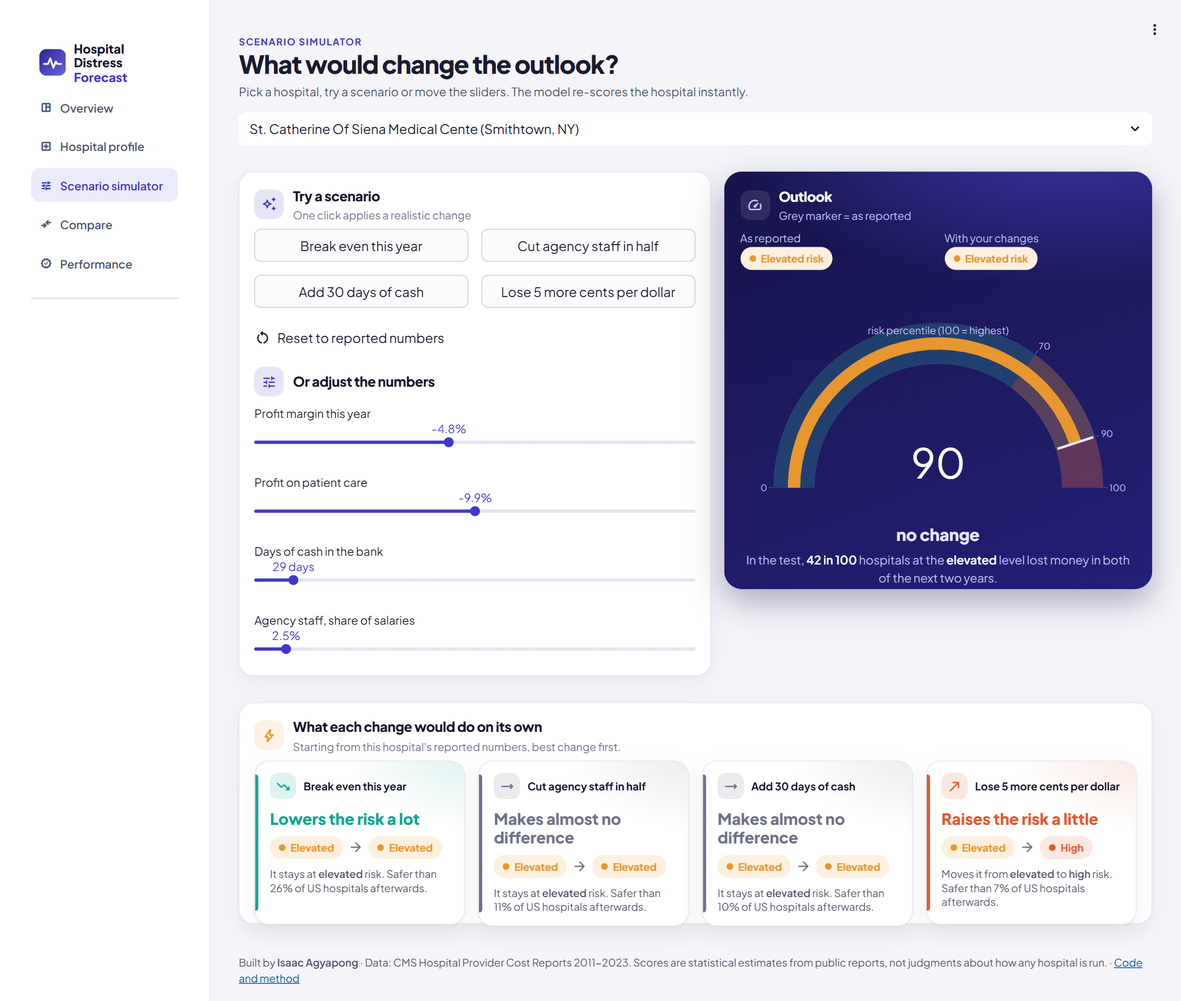
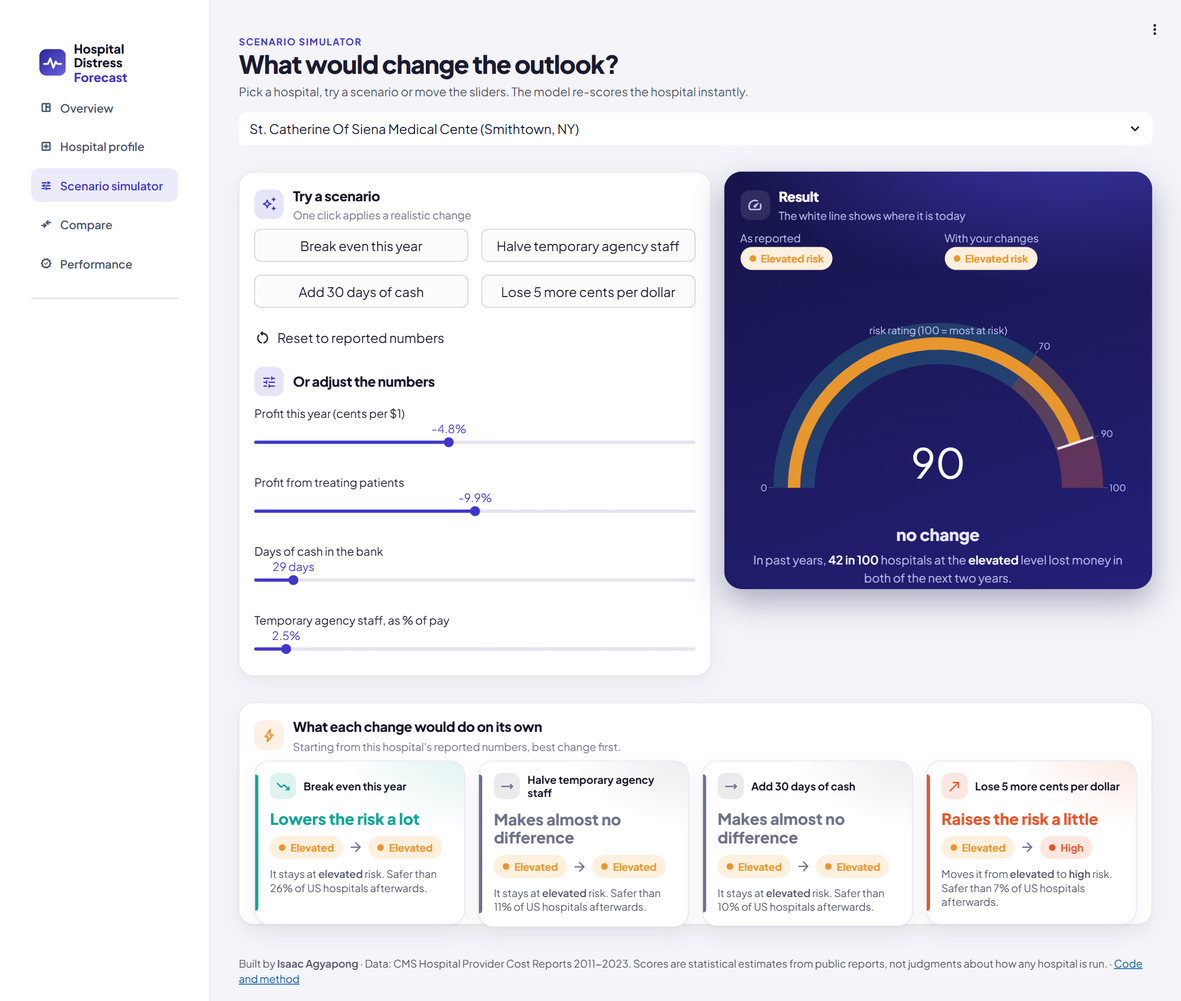
Plain-language pass: start-here guide, simpler risk-by-group chart, one risk rating, filter help, no jargon on the pages

diff --git a/app/app.py b/app/app.py
@@ -295,6 +295,17 @@ div[data-testid="stMetricValue"] {{ font-weight: 800; }}
     background: #FFF7EC; border: 1px solid #F8DDB6; font-size: 14px; color: #5B4A33; line-height: 1.55; }}
 .note .msym {{ color: {AMBER}; font-size: 22px; }}
 .note b {{ color: #3D2F1C; }}
+.start {{ background: #fff; border: 1px solid {LINE}; border-radius: 18px; padding: 14px 18px 14px 18px;
+    box-shadow: 0 6px 18px rgba(22,22,42,.05); animation: rise .6s both; }}
+.start-lab {{ font-size: 12px; font-weight: 800; letter-spacing: .1em; text-transform: uppercase; color: {INDIGO}; margin-bottom: 10px; }}
+.start-row {{ display: grid; grid-template-columns: repeat(3, 1fr); gap: 14px; }}
+.sh {{ display: flex; gap: 10px; align-items: flex-start; }}
+.sh-n {{ flex: none; width: 26px; height: 26px; border-radius: 50%; background: {INDIGO}; color: white; font-weight: 800;
+    font-size: 13px; display: grid; place-items: center; }}
+.sh .msym {{ color: {INDIGO}; font-size: 22px; flex: none; margin-top: 2px; }}
+.sh-t {{ font-size: 14.5px; font-weight: 800; color: {INK}; }}
+.sh-d {{ font-size: 13.5px; color: {INK_2}; line-height: 1.45; }}
+.start-key {{ margin-top: 12px; padding-top: 10px; border-top: 1px dashed {LINE}; font-size: 13.5px; color: {INK_2}; line-height: 2; }}
 .waffles {{ display: flex; justify-content: space-around; gap: 12px; flex-wrap: wrap; padding-top: 6px; }}
 .waffle {{ text-align: center; }}
 .waffle-n {{ font-size: 24px; font-weight: 800; letter-spacing: -0.02em; margin-top: 10px; }}
@@ -523,8 +534,8 @@ def hero():
     </div>
     <div class="hero-stats">
       <div class="hs"><b>{N:,}</b><span>hospitals scored</span></div>
-      <div class="hs"><b>{HIT}<small> in 100</small></b><span>high-risk picks proved right in the test</span></div>
-      <div class="hs"><b>+{hm - hr}</b><span>more early warnings than the best simple rule</span></div>
+      <div class="hs"><b>{HIT}<small> in 100</small></b><span>of the hospitals it flagged as high risk really did struggle, when checked against later years</span></div>
+      <div class="hs"><b>+{hm - hr}</b><span>more struggling hospitals spotted early than a simple rule of thumb</span></div>
     </div>
   </div>
 </div>"""
@@ -559,8 +570,24 @@ def night_map(d):
     return fig
 
 
+def start_here():
+    steps = [("map", "Look at the map", "Every dot is a hospital. Red means high risk of losing money two years in a row."),
+             ("touch_app", "Click any hospital", "See its risk, its profit history and the reasons behind its rating."),
+             ("tune", "Try \"what if\"", "In the simulator, change its numbers and watch the risk go up or down.")]
+    cells = "".join(f'<div class="sh"><span class="sh-n">{i + 1}</span><span class="msym">{ic}</span>'
+                    f'<div><div class="sh-t">{t_}</div><div class="sh-d">{d_}</div></div></div>'
+                    for i, (ic, t_, d_) in enumerate(steps))
+    html(f"""<div class="start"><div class="start-lab">New here? Start with these three steps</div>
+        <div class="start-row">{cells}</div>
+        <div class="start-key"><b>Risk levels:</b> {badge("High")} the 10% of hospitals most likely to struggle ·
+        {badge("Elevated")} the next 20% · {badge("Lower")} the other 70%. <b>Profit</b> is the cents a hospital keeps from
+        each $1 it takes in; below zero means it lost money.</div></div>""")
+
+
 def overview():
     hero()
+    st.write("")
+    start_here()
     # clicks remembered from the last run: a dot on the night map opens that hospital, a row in the table too
     ev = st.session_state.get("night")
     pts = (ev or {}).get("selection", {}).get("points", []) if ev else []
@@ -575,9 +602,12 @@ def overview():
         c = st.columns([1.2, 1.3, 1.6, 1.2])
         states = ["All states"] + sorted(SCORES.state_abbrev.unique())
         state = c[0].selectbox("State", states, key="f_state")
-        htype = c[1].pills("Hospital type", ["General", "Critical access"], selection_mode="multi", key="f_type")
-        owner = c[2].pills("Owner", ["Nonprofit", "For-profit", "Government"], selection_mode="multi", key="f_owner")
-        area = c[3].pills("Area", ["Urban", "Rural"], selection_mode="multi", key="f_area")
+        htype = c[1].pills("Hospital type", ["General", "Critical access"], selection_mode="multi", key="f_type",
+                           help="Critical access = small rural hospitals with 25 beds or fewer. General = all other hospitals.")
+        owner = c[2].pills("Owner", ["Nonprofit", "For-profit", "Government"], selection_mode="multi", key="f_owner",
+                           help="Who runs the hospital: a charity (nonprofit), a company (for-profit) or a city, county or state (government).")
+        area = c[3].pills("Area", ["Urban", "Rural"], selection_mode="multi", key="f_area",
+                          help="Urban = in or near a city. Rural = countryside.")
     d = SCORES
     if state != "All states":
         d = d[d.state_abbrev == state]
@@ -596,51 +626,53 @@ def overview():
     c = st.columns(4)
     shares = {L: 100 * lv.get(L, 0) / n for L in LEVELS}
     trend = HIST[HIST.ccn.isin(d.ccn)].groupby("fiscal_year").total_margin.median()
-    kpi(c[0], "n", "Hospitals in view", f"{n:,}", "latest report, mostly 2023", INDIGO_D, "local_hospital",
+    kpi(c[0], "n", "Hospitals shown", f"{n:,}", "from their latest yearly reports", INDIGO_D, "local_hospital",
         mixbar_svg(shares), 0)
     kpi(c[1], "h", "High risk", f"{lv.get('High', 0):,}",
-        f"{TRACK['High']} in 100 like these lost money in the test", CORAL, "warning",
+        f"of those shown. In past years, {TRACK['High']} in 100 like these went on to struggle", CORAL, "warning",
         ring_svg(shares["High"], CORAL, text=f"{shares['High']:.0f}%", track="#FBE3DC"), 1)
     kpi(c[2], "e", "Elevated risk", f"{lv.get('Elevated', 0):,}",
-        f"{TRACK['Elevated']} in 100 in the test", AMBER, "trending_up",
+        f"of those shown. In past years, {TRACK['Elevated']} in 100 like these struggled", AMBER, "trending_up",
         ring_svg(shares["Elevated"], AMBER, text=f"{shares['Elevated']:.0f}%", track="#FBEBD6"), 2)
-    kpi(c[3], "m", "Typical profit margin", f"{100 * d.total_margin.median():.1f}%",
-        f"typical margin, {int(trend.index.min())}-{int(trend.index.max())}", INDIGO, "payments",
+    kpi(c[3], "m", "Typical profit", f"{100 * d.total_margin.median():.1f}¢",
+        f"kept from each $1 of income. Trend since {int(trend.index.min())}", INDIGO, "payments",
         spark_svg(trend.values, INDIGO), 3)
     st.write("")
     with st.container(key="night-card"):
         st.markdown(f'<div class="night-head"><div><div class="night-eyebrow">The night map</div>'
                     f'<div class="night-title">{n:,} hospitals, each a point of light</div></div>'
-                    f'<div class="night-note">Coral = high risk · hover for details · <b>click a dot to open the hospital</b>'
+                    f'<div class="night-note">Red dots = high risk · point at a dot for details · <b>click a dot to open that hospital</b>'
                     f'</div></div>', unsafe_allow_html=True)
         plot(night_map(d), on_select="rerun", selection_mode="points", key="night")
     st.write("")
     left, right = st.columns([1, 1.25])
     with left, card("sun"):
-        section("donut_large", "Who is at risk", "Owner, then rural or urban, then risk level. Click a ring to zoom in.")
-        g = d.groupby(["ownership", "rural_urban", "risk_level"]).size().reset_index(name="n")
-        ids, labels, parents, values, colours = [], [], [], [], []
-        own_col = {"Nonprofit": INDIGO, "For-profit": "#6A62E0", "Government": "#2B2596"}
-        for o, go_ in g.groupby("ownership"):
-            ids.append(o); labels.append(o); parents.append(""); values.append(go_.n.sum()); colours.append(own_col.get(o, INDIGO))
-            for a, ga in go_.groupby("rural_urban"):
-                ids.append(f"{o}/{a}"); labels.append(a); parents.append(o); values.append(ga.n.sum())
-                colours.append(INDIGO_L if a == "Urban" else "#C9C6F4")
-                for _, r in ga.iterrows():
-                    ids.append(f"{o}/{a}/{r.risk_level}"); labels.append(r.risk_level); parents.append(f"{o}/{a}")
-                    values.append(r.n); colours.append(LEVEL_COLOUR[r.risk_level])
-        fig = go.Figure(go.Sunburst(ids=ids, labels=labels, parents=parents, values=values, branchvalues="total",
-                                    marker=dict(colors=colours, line=dict(color="white", width=1.5)),
-                                    insidetextorientation="radial", textfont=dict(size=13),
-                                    hovertemplate="<b>%{label}</b><br>%{value:,} hospitals<br>%{percentParent:.0%} of "
-                                                  "%{parent}<extra></extra>"))
-        fig = styled(fig, 420)
-        fig.update_layout(uniformtext=dict(minsize=12, mode="hide"))
+        section("groups", "Which kinds of hospitals are most at risk",
+                "Share of each group rated high risk. The dashed line is the average for all hospitals shown.")
+        groups = [("For-profit", d.ownership == "For-profit"), ("Nonprofit", d.ownership == "Nonprofit"),
+                  ("Government", d.ownership == "Government"), ("City (urban)", d.rural_urban == "Urban"),
+                  ("Countryside (rural)", d.rural_urban == "Rural"), ("General hospitals", d.type_short == "General"),
+                  ("Small rural hospitals", d.type_short == "Critical access")]
+        g = pd.DataFrame([(name, int(m.sum()), 100 * (d[m].risk_level == "High").mean()) for name, m in groups if m.sum() >= 10],
+                         columns=["group", "n", "share"]).sort_values("share")
+        avg = 100 * (d.risk_level == "High").mean()
+        fig = go.Figure(go.Bar(
+            x=g.share, y=g.group, orientation="h",
+            marker=dict(color=[CORAL if v > avg else INDIGO_L for v in g.share], cornerradius=7),
+            text=[f"<b>{v:.0f}%</b>  of {n:,}" for v, n in zip(g.share, g.n)], textposition="outside",
+            textfont=dict(size=12.5), hovertemplate="%{y}: %{x:.0f}% at high risk<extra></extra>"))
+        fig.add_vline(x=avg, line_dash="dash", line_color=INK_3, line_width=1.5,
+                      annotation_text=f"average {avg:.0f}%", annotation_position="top",
+                      annotation_font=dict(size=11.5, color=INK_2))
+        fig.update_xaxes(visible=False, range=[0, max(g.share.max() * 1.45, 5)])
+        fig.update_yaxes(tickfont=dict(size=13))
+        fig = styled(fig, 400)
+        fig.update_layout(bargap=0.35, margin=dict(l=8, r=8, t=30, b=8))
         plot(fig)
     with right, card("list"):
         top = st.columns([1.7, 1.6])
         with top[0]:
-            section("format_list_numbered", "Highest-risk hospitals", "Select a row to open its profile", CORAL)
+            section("format_list_numbered", "Hospitals most at risk", "Tick a row to open that hospital's page", CORAL)
         lvl = top[1].segmented_control("Show", LEVELS, default="High", key="f_level", label_visibility="collapsed")
         t = d[d.risk_level == lvl] if lvl else d
         table = t.assign(margin=100 * t.total_margin)[["label", "percentile", "margin", "loss_streak"]].head(300)
@@ -649,10 +681,10 @@ def overview():
             selection_mode="single-row", key="table",
             column_config={
                 "label": st.column_config.TextColumn("Hospital", width=250),
-                "percentile": st.column_config.ProgressColumn("Risk score", min_value=0, max_value=100, format="%.0f",
+                "percentile": st.column_config.ProgressColumn("Risk rating", min_value=0, max_value=100, format="%.0f",
                                                               width=100),
-                "margin": st.column_config.NumberColumn("Margin", format="%.1f%%", width=72),
-                "loss_streak": st.column_config.NumberColumn("Loss years", width=76)})
+                "margin": st.column_config.NumberColumn("Profit", format="%.1f%%", width=72),
+                "loss_streak": st.column_config.NumberColumn("Years losing", width=90)})
         rows = ev.selection.rows if ev is not None else []
         if rows:
             open_profile(table.iloc[rows[0]].label)
@@ -678,14 +710,14 @@ def swarm(h):
                     marker=dict(size=34, color=LEVEL_COLOUR[h.risk_level], opacity=0.2))
     fig.add_scatter(x=[hx], y=[0], mode="markers", showlegend=False, hoverinfo="skip",
                     marker=dict(size=15, color=LEVEL_COLOUR[h.risk_level], line=dict(color="white", width=3)))
-    fig.add_annotation(x=hx, y=0, ax=0, ay=-78, text=f"<b>{h['name'][:44]}</b><br>score {hx:.0f} · #{int(h.risk_rank):,}",
+    fig.add_annotation(x=hx, y=0, ax=0, ay=-78, text=f"<b>{h['name'][:44]}</b><br>#{int(h.risk_rank):,} of {N:,} most at risk",
                        showarrow=True, arrowhead=0, arrowwidth=1.5, arrowcolor=INK, bgcolor="white",
                        bordercolor=LINE, borderpad=6, font=dict(size=12, color=INK, family="Plus Jakarta Sans"))
     for xv, lab in [(100 * Q70, "elevated"), (100 * Q90, "high")]:
         fig.add_vline(x=xv, line_color=INK_3, line_dash="dot", line_width=1)
         fig.add_annotation(x=xv, y=-2.9, text=f"{lab} risk from here", showarrow=False, xanchor="left",
                            font=dict(size=11, color=INK_3))
-    fig.update_xaxes(range=[-1, 101], title="model risk score (0-100)", showgrid=False, zeroline=False)
+    fig.update_xaxes(range=[-1, 101], title="<b>safest</b>  ←  risk  →  <b>most at risk</b>", showgrid=False, zeroline=False, showticklabels=False)
     fig.update_yaxes(visible=False, range=[-3.1, 3.4])
     fig.update_layout(legend=dict(orientation="h", y=1.1, x=0))
     return styled(fig, 340, legend=True)
@@ -704,7 +736,7 @@ def profile():
         <span class="gchip"><span class="msym">location_on</span>{h.city}, {h.state_abbrev}</span>
         <span class="gchip"><span class="msym">apartment</span>{h.ownership}</span>
         <span class="gchip"><span class="msym">{"park" if h.rural_urban == "Rural" else "location_city"}</span>{h.rural_urban}</span>{beds}</div>
-        <div class="phead-r">{ring_svg(h.percentile, lc, size=124, stroke=11, text=f"{h.percentile:.0f}", sub="risk percentile",
+        <div class="phead-r">{ring_svg(h.percentile, lc, size=124, stroke=11, text=f"{h.percentile:.0f}", sub="risk rating",
                                       track="rgba(255,255,255,.12)", text_colour="white")}
         <div>{badge(h.risk_level)}<div class="phead-rank">#{int(h.risk_rank):,} <span>of {N:,}</span></div>
         <div class="phead-note">riskier than {h.percentile:.0f}% of US hospitals</div></div></div></div>""")
@@ -712,29 +744,29 @@ def profile():
     c = st.columns(4)
     hh = HIST[HIST.ccn == h.ccn].sort_values("fiscal_year")
     mcol = CORAL if h.total_margin < 0 else TEAL
-    kpi(c[0], "pm", "Profit margin", f"{100 * h.total_margin:.1f}%",
-        f"US typical {100 * SCORES.total_margin.median():.1f}% · trend since {int(hh.fiscal_year.min())}", mcol, "payments",
+    kpi(c[0], "pm", "Profit (or loss)", f"{100 * h.total_margin:.1f}%",
+        f"per $1 of income (typical: {100 * SCORES.total_margin.median():.1f}%)", mcol, "payments",
         spark_svg(hh.total_margin.values, mcol), 0)
     kpi(c[1], "ls", "Years in a row losing money", f"{int(h.loss_streak)}",
         "made money in its latest year" if h.loss_streak == 0 else f"losing money up to {int(h.fiscal_year)}",
         CORAL if h.loss_streak >= 2 else INDIGO, "event_repeat", streak_svg(h.ccn), 1)
-    kpi(c[2], "pc", "Profit on patient care", show_value("operating_margin", h.operating_margin),
-        "before gifts and investments", CORAL if (h.operating_margin or 0) < 0 else TEAL, "stethoscope",
+    kpi(c[2], "pc", "Profit from treating patients", show_value("operating_margin", h.operating_margin),
+        "not counting donations", CORAL if (h.operating_margin or 0) < 0 else TEAL, "stethoscope",
         bullet_svg(h.operating_margin, SCORES.operating_margin.median(), CORAL if (h.operating_margin or 0) < 0 else TEAL), 2)
-    kpi(c[3], "tr", "Track record of this level", f"{TRACK[h.risk_level]} in 100",
-        f"{h.risk_level.lower()}-risk hospitals that then lost money two years (test)", lc, "fact_check",
+    kpi(c[3], "tr", "How often this goes badly", f"{TRACK[h.risk_level]} in 100",
+        f"{h.risk_level}-risk hospitals then lost money 2 years running", lc, "fact_check",
         ring_svg(TRACK[h.risk_level], lc, text=f"{TRACK[h.risk_level]}", track=LEVEL_BG[h.risk_level]), 3)
     st.write("")
     with card("swarm"):
         section("scatter_plot", "Where it sits among all US hospitals",
-                f"Each dot is one of {N:,} hospitals, placed by its risk score. Most are low risk; a long tail runs toward trouble.")
+                f"Each dot is one US hospital, from safest (left) to most at risk (right). Most are safe; a thin tail runs toward trouble.")
         plot(swarm(h))
     st.write("")
     tabs = st.tabs([":material/insights: Why this score", ":material/bar_chart: Profit history",
                     ":material/groups: Compared with peers"])
     with tabs[0], card("why"):
         section("psychology", "What moved this hospital's score",
-                "Each bar is one factor: right = pushes the risk up, left = pulls it down. Exact contributions from the model.",
+                "Each bar is one thing the model looked at. Bars to the right make things look worse; bars to the left make them look better.",
                 CORAL)
         top = contrib.reindex(contrib.abs().sort_values(ascending=False).index).head(8)[::-1]
         ylab = []
@@ -744,7 +776,8 @@ def profile():
             who = "that year" if f in ("us_median_margin", "state_median_margin", "state_share_losing") else "this hospital"
             if who == "that year":
                 extra = ""
-            ylab.append(f"<b>{META['labels'][f].capitalize()}</b><br><span style='color:{INK_3}'>{who} "
+            name = META['labels'][f].replace('profit margin', 'profit').replace('profit on patient care', 'profit from treating patients')
+            ylab.append(f"<b>{name.capitalize()}</b><br><span style='color:{INK_3}'>{who} "
                         f"{show_value(f, row[f])}{extra}</span>")
         lim = max(abs(top.values).max() * 1.25, 0.1)
         fig = go.Figure(go.Bar(
@@ -765,7 +798,7 @@ def profile():
         fig.update_layout(bargap=0.32, margin=dict(l=8, r=8, t=34, b=8))
         plot(fig)
     with tabs[1], card("hist"):
-        section("bar_chart", "Profit margin by year", "Share of each dollar of income kept as profit. Coral = a loss.")
+        section("bar_chart", "Profit or loss, year by year", "Cents kept from each $1 of income. Red bars = years it lost money.")
         fig = go.Figure(go.Bar(x=hh.fiscal_year, y=100 * hh.total_margin,
                                marker=dict(color=[CORAL if v < 0 else INDIGO for v in hh.total_margin], cornerradius=6),
                                text=[f"{100 * v:.1f}%" for v in hh.total_margin], textposition="outside",
@@ -781,7 +814,7 @@ def profile():
         ps = 100 * (peers.risk_level == "High").mean()
         kpi(pc[0], "pp1", "Peers in the state", f"{len(peers):,}", f"{h.hospital_type.lower()} hospitals",
             INDIGO, "groups", mixbar_svg({L: 100 * (peers.risk_level == L).mean() for L in LEVELS}), 0)
-        kpi(pc[1], "pp2", "Their typical profit margin", f"{100 * peers.total_margin.median():.1f}%",
+        kpi(pc[1], "pp2", "Their typical profit", f"{100 * peers.total_margin.median():.1f}%",
             f"this hospital {100 * h.total_margin:.1f}%", INDIGO, "payments",
             bullet_svg(h.total_margin, peers.total_margin.median(), mcol), 1)
         kpi(pc[2], "pp3", "Peers at high risk", f"{ps:.0f}%", "of the same type in the state", CORAL, "warning",
@@ -792,7 +825,7 @@ def profile():
 SCENARIOS = {
     "Break even this year": lambda r: {"total_margin": max(r["total_margin"], 0.0),
                                        "operating_margin": max(r["operating_margin"] or 0, 0.0)},
-    "Cut agency staff in half": lambda r: {"contract_labor_pct": (r["contract_labor_pct"] or 0) / 2},
+    "Halve temporary agency staff": lambda r: {"contract_labor_pct": (r["contract_labor_pct"] or 0) / 2},
     "Add 30 days of cash": lambda r: {"days_cash_on_hand": max(r["days_cash_on_hand"] or 0, 0) + 30},
     "Lose 5 more cents per dollar": lambda r: {"total_margin": r["total_margin"] - 0.05,
                                                "operating_margin": (r["operating_margin"] or 0) - 0.05},
@@ -837,10 +870,10 @@ def simulator():
                 st.session_state[key + k] = v
             st.rerun()
         section("tune", "Or adjust the numbers")
-        m = st.slider("Profit margin this year", -40.0, 40.0, step=0.5, key=key + "m", format="%.1f%%")
-        om = st.slider("Profit on patient care", -60.0, 40.0, step=0.5, key=key + "o", format="%.1f%%")
+        m = st.slider("Profit this year (cents per $1)", -40.0, 40.0, step=0.5, key=key + "m", format="%.1f%%")
+        om = st.slider("Profit from treating patients", -60.0, 40.0, step=0.5, key=key + "o", format="%.1f%%")
         cash = st.slider("Days of cash in the bank", 0.0, 365.0, step=1.0, key=key + "c", format="%.0f days")
-        agency = st.slider("Agency staff, share of salaries", 0.0, 40.0, step=0.5, key=key + "a", format="%.1f%%")
+        agency = st.slider("Temporary agency staff, as % of pay", 0.0, 40.0, step=0.5, key=key + "a", format="%.1f%%")
     row = dict(base, total_margin=m / 100, operating_margin=om / 100, days_cash_on_hand=cash,
                contract_labor_pct=agency / 100, loss=int(m < 0))
     if m >= 0:
@@ -853,13 +886,13 @@ def simulator():
     pb, pa = percentile_of(before), percentile_of(after)
     lb, la = level_of(before), level_of(after)
     with right, st.container(key="dark-outcome"):
-        section("speed", "Outlook", "Grey marker = as reported")
+        section("speed", "Result", "The white line shows where it is today")
         c = st.columns(2)
         c[0].markdown(f'<div class="muted">As reported</div>{badge(lb)}', unsafe_allow_html=True)
         c[1].markdown(f'<div class="muted">With your changes</div>{badge(la)}', unsafe_allow_html=True)
         fig = go.Figure(go.Indicator(
             mode="gauge+number", value=pa, number=dict(valueformat=".0f", font=dict(size=50, color="white")),
-            title=dict(text="risk percentile (100 = highest)", font=dict(size=12.5, color="#BEBBF0")),
+            title=dict(text="risk rating (100 = most at risk)", font=dict(size=12.5, color="#BEBBF0")),
             gauge=dict(axis=dict(range=[0, 100], tickvals=[0, 70, 90, 100], tickfont=dict(size=11, color="#BEBBF0"),
                                  tickcolor="#5C58B0"),
                        bar=dict(color=LEVEL_COLOUR[la], thickness=0.3), bgcolor="rgba(255,255,255,.04)",
@@ -874,7 +907,7 @@ def simulator():
         arrow = "no change" if abs(moved) < 0.5 else (f"▲ {moved:.0f} points riskier" if moved > 0 else f"▼ {-moved:.0f} points safer")
         colour = "#E9E8FF" if abs(moved) < 0.5 else (CORAL if moved > 0 else "#4FD1C0")
         html(f"""<div style="text-align:center;font-size:20px;font-weight:800;color:{colour}">{arrow}</div>
-            <div class="sub" style="text-align:center;margin-top:4px">In the test, <b>{TRACK[la]} in 100</b> hospitals at the
+            <div class="sub" style="text-align:center;margin-top:4px">In past years, <b>{TRACK[la]} in 100</b> hospitals at the
             <b>{la.lower()}</b> level lost money in both of the next two years.</div><div style="height:6px"></div>""")
     st.write("")
     with card("impact"):
@@ -943,18 +976,18 @@ def compare():
                 <div style="display:flex;justify-content:space-between;gap:10px;align-items:flex-start">
                 <div><div class="cmp-name"><span style="color:{palette[i]}">●</span> {h["name"]}</div>
                 <div class="muted" style="margin:2px 0 8px 0">{h.city}, {h.state_abbrev} · {h.ownership}</div>{badge(h.risk_level)}</div>
-                {ring_svg(h.percentile, lc, size=78, stroke=8, text=f"{h.percentile:.0f}", sub="percentile",
+                {ring_svg(h.percentile, lc, size=78, stroke=8, text=f"{h.percentile:.0f}", sub="risk rating",
                           track=LEVEL_BG[h.risk_level])}</div>
                 <div style="font-size:26px;font-weight:800;color:{INK};margin:10px 0 2px 0">#{int(h.risk_rank):,}
                 <span class="muted" style="font-size:13px">of {N:,}</span></div>
                 <div style="margin:6px 0 4px 0">{spark_svg(hh.total_margin.values, CORAL if h.total_margin < 0 else TEAL, w=250, h=52)}</div>
-                <div class="cmp-row"><span>Profit margin</span><b style="color:{CORAL if h.total_margin < 0 else TEAL}">{100 * h.total_margin:.1f}%</b></div>
+                <div class="cmp-row"><span>Profit per $1</span><b style="color:{CORAL if h.total_margin < 0 else TEAL}">{100 * h.total_margin:.1f}%</b></div>
                 <div class="cmp-row"><span>Years losing money</span><b>{int(h.loss_streak)}</b></div>
                 <div class="cmp-row"><span>Days of cash</span><b>{show_value("days_cash_on_hand", h.days_cash_on_hand)}</b></div>
-                <div class="cmp-row"><span>Biggest factor</span><b>{str(h.reason_1)}</b></div></div>""")
+                <div class="cmp-row"><span>Biggest factor</span><b>{str(h.reason_1).replace('profit margin', 'profit')}</b></div></div>""")
     st.write("")
     with card("cmp_hist"):
-        section("show_chart", "Profit margin over time", "Below the line = losing money")
+        section("show_chart", "Profit or loss over time", "Below the line = losing money")
         fig = go.Figure()
         lows = []
         for i, (_, h) in enumerate(d.iterrows()):
@@ -988,14 +1021,14 @@ def performance():
             f'<rect x="54" y="{58 - 50 * hr / hm:.0f}" width="30" height="{50 * hr / hm:.0f}" rx="7" fill="#F29B38" '
             f'style="animation:pop .5s .15s both"/></svg>')
     c = st.columns(4)
-    kpi(c[0], "p1", "High-risk picks that were right", f"{HIT} in 100", "2021 reports, outcome 2022-2023", INDIGO,
+    kpi(c[0], "p1", "Right when it said 'high risk'", f"{HIT} in 100", "2021 reports, outcome 2022-2023", INDIGO,
         "target", ring_svg(HIT, INDIGO, text=f"{HIT}", track=INDIGO_XL), 0)
     kpi(c[1], "p2", "Best rule of thumb", f"{rule} in 100", "already lost money 2 years running", "#E58A1F",
         "rule", ring_svg(rule, "#F29B38", text=f"{rule}", track="#FDEBD5"), 1)
-    kpi(c[2], "p3", "Early warnings caught", f"+{hm - hr}", f"{hm} vs {hr} among hospitals still making money", TEAL,
+    kpi(c[2], "p3", "Early warnings caught", f"+{hm - hr}", f"{hm} vs {hr} caught while still making money", TEAL,
         "notifications_active", bars, 2)
-    kpi(c[3], "p4", "Ranking accuracy", f"{auc:.2f}", f"ROC-AUC · best rule {auc_rule:.2f} · 0.5 = a coin flip", INDIGO_D,
-        "leaderboard", ring_svg(100 * (auc - 0.5) / 0.5, INDIGO_D, text=f"{auc:.2f}", track=INDIGO_XL), 3)
+    kpi(c[3], "p4", "Tells struggling from safe", f"{round(100 * auc)} in 100", f"picks the struggler from a pair (coin flip: 50)", INDIGO_D,
+        "leaderboard", ring_svg(100 * auc, INDIGO_D, text=f"{round(100 * auc)}", track=INDIGO_XL), 3)
     st.write("")
     left, right = st.columns([1.2, 1])
     with left, card("perf_years"):
@@ -1020,7 +1053,7 @@ def performance():
         plot(styled(fig, 400, legend=True))
     with right, card("perf_levels"):
         section("grid_view", "Out of every 100 hospitals in each group",
-                "how many lost money in both of the next two years (2021 test)", CORAL)
+                "how many lost money in both of the next two years, checked on 2021 reports", CORAL)
         cells = "".join(
             f'<div class="waffle">{waffle_svg(TRACK[L], LEVEL_COLOUR[L], cell=9, gap=3)}'
             f'<div class="waffle-n" style="color:{LEVEL_COLOUR[L]}">{TRACK[L]} in 100</div>'

diff --git a/README.md b/README.md
@@ -98,9 +98,9 @@ care, staffing, size, cash and agency staff costs. Each hospital's top three rea
 
 Five pages, built with Streamlit and Plotly, designed as a product rather than a report:
 
-1. **Overview:** an animated banner, then a **night map** of all 4,460 hospitals as points of light at their real
-   locations (high risk glows coral; click a dot to open the hospital), a sunburst of who is at risk (owner, then
-   rural or urban, then risk level), and a list you can click into. Filter chips (state, hospital type, owner, rural
+1. **Overview:** an animated banner and a three-step "start here" guide for first-time visitors, then a **night map** of all 4,460 hospitals as points of light at their real
+   locations (high risk glows coral; click a dot to open the hospital), a simple chart of which kinds of
+   hospitals are most at risk, and a list you can click into. Filter chips (state, hospital type, owner, rural
    or urban) drive every number and chart.
 2. **Hospital profile:** risk level, rank and percentile, a "comet" of all hospitals by risk score with this one
    called out, then tabs for **why this score** (the exact factors that
